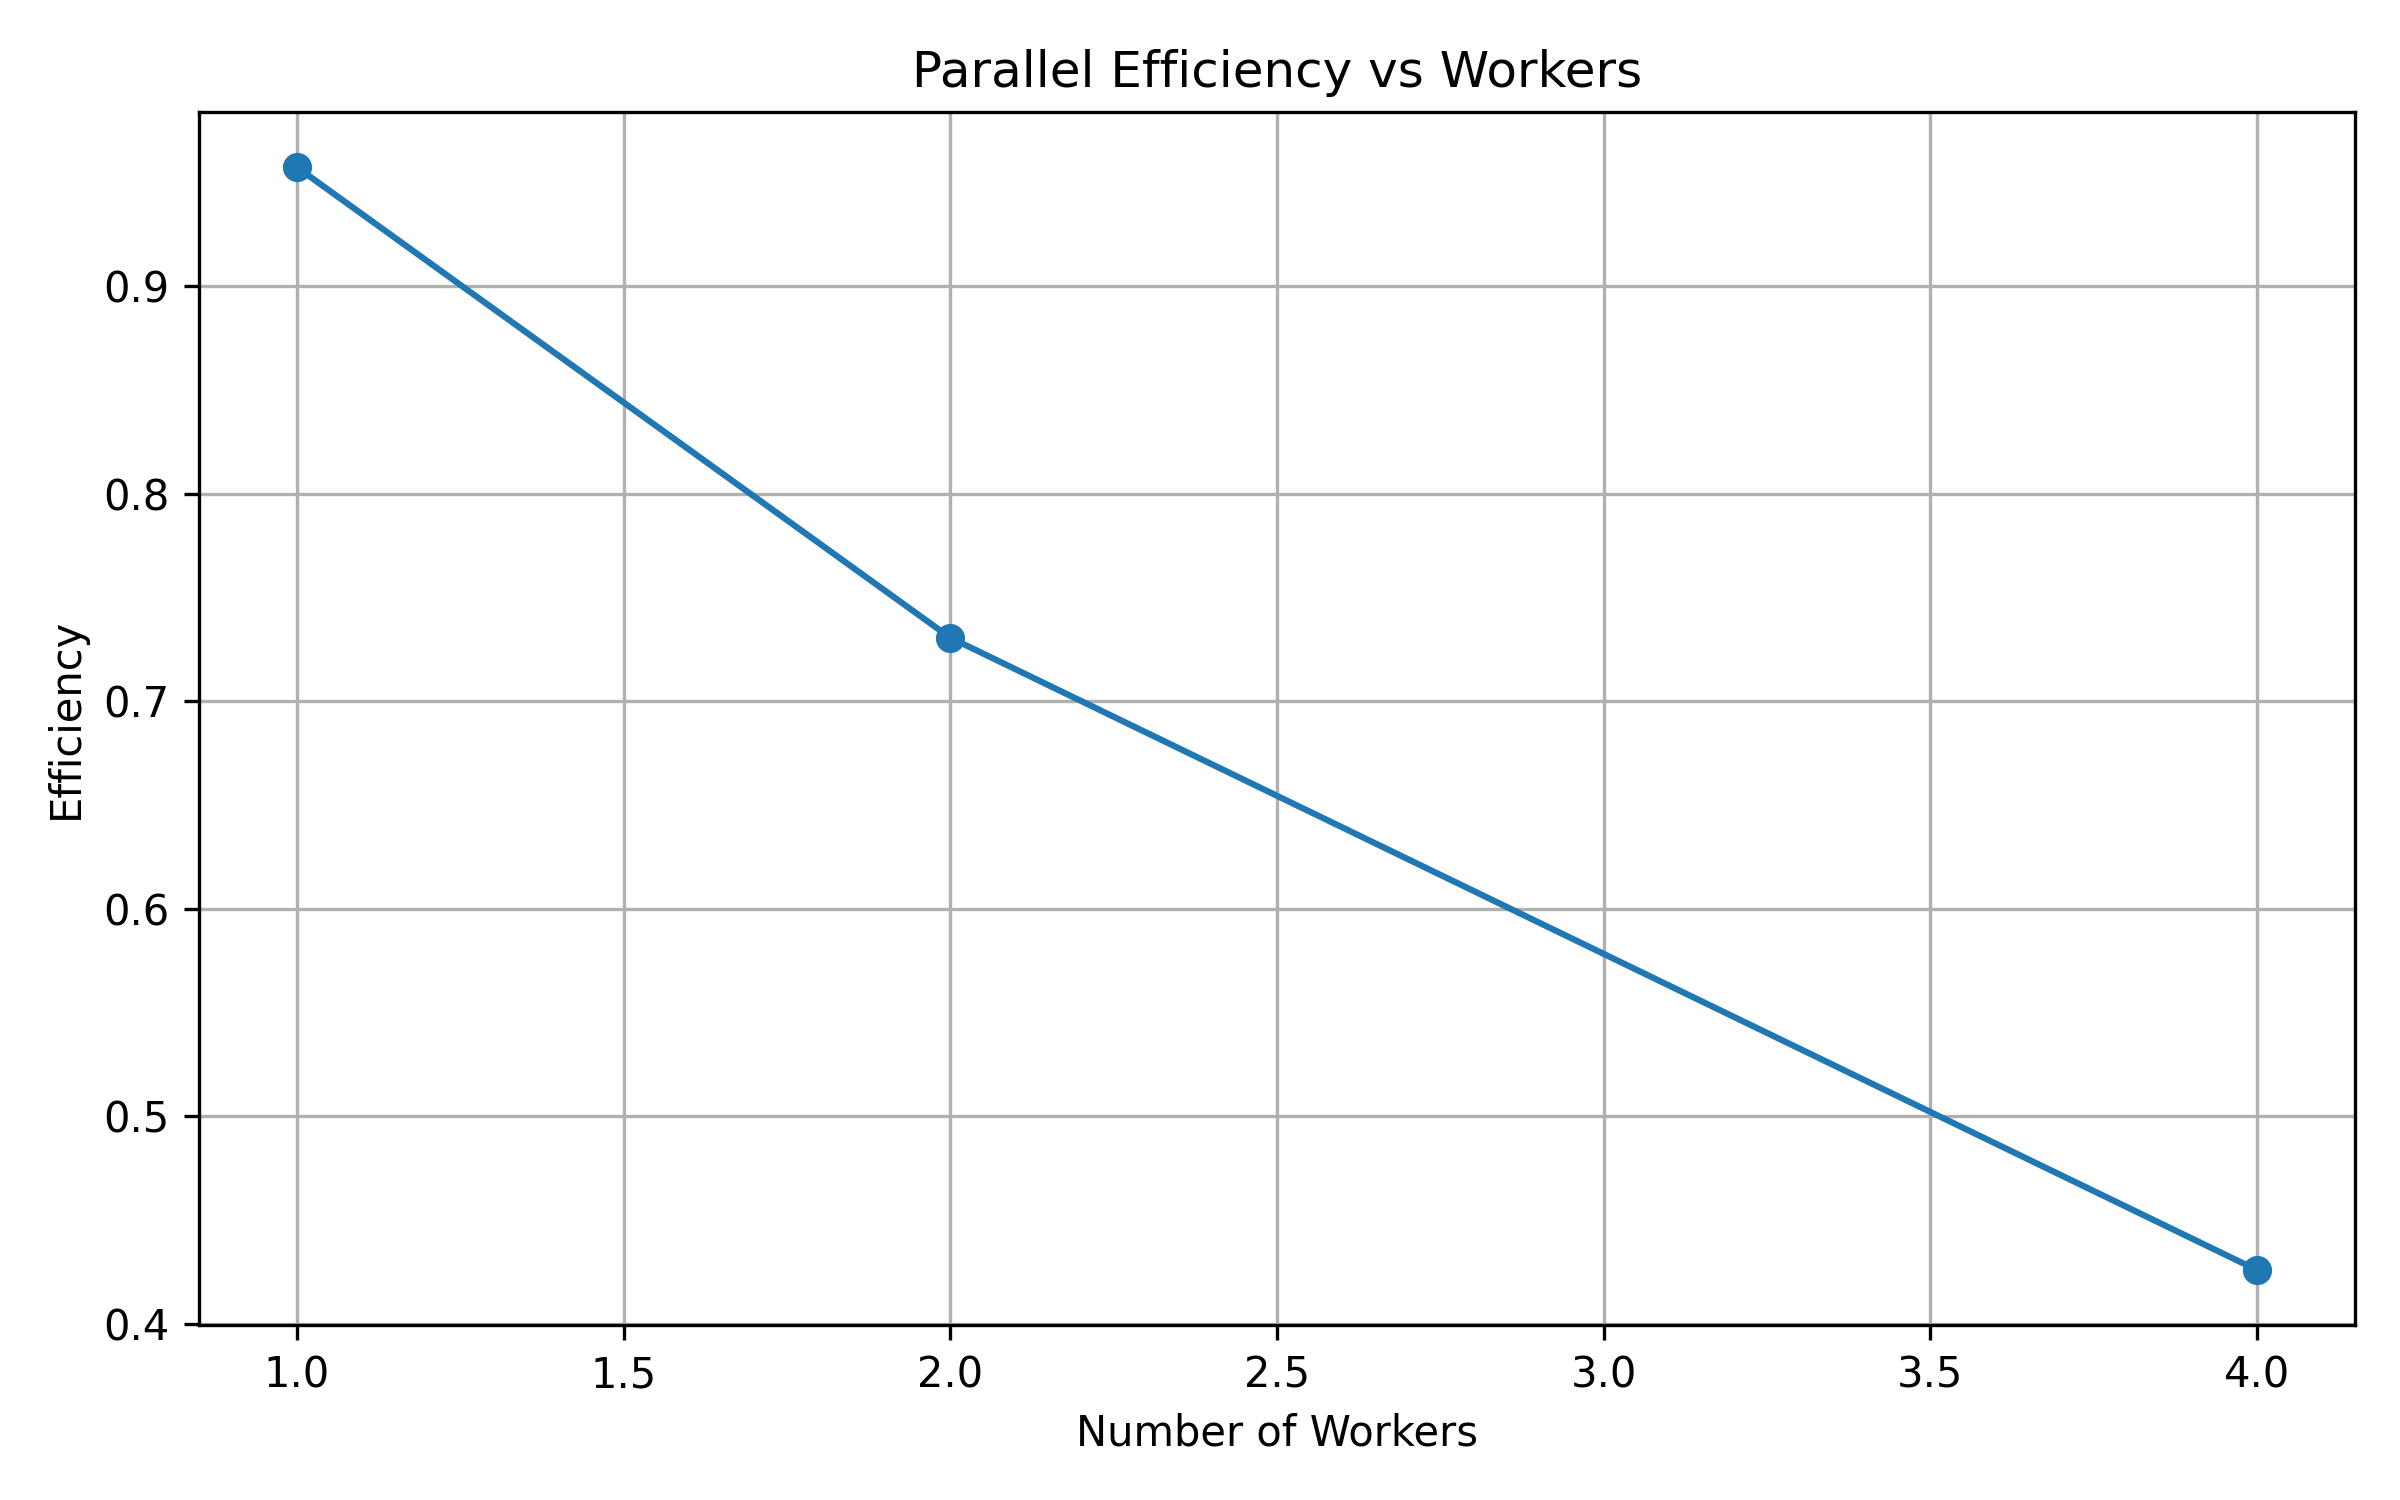
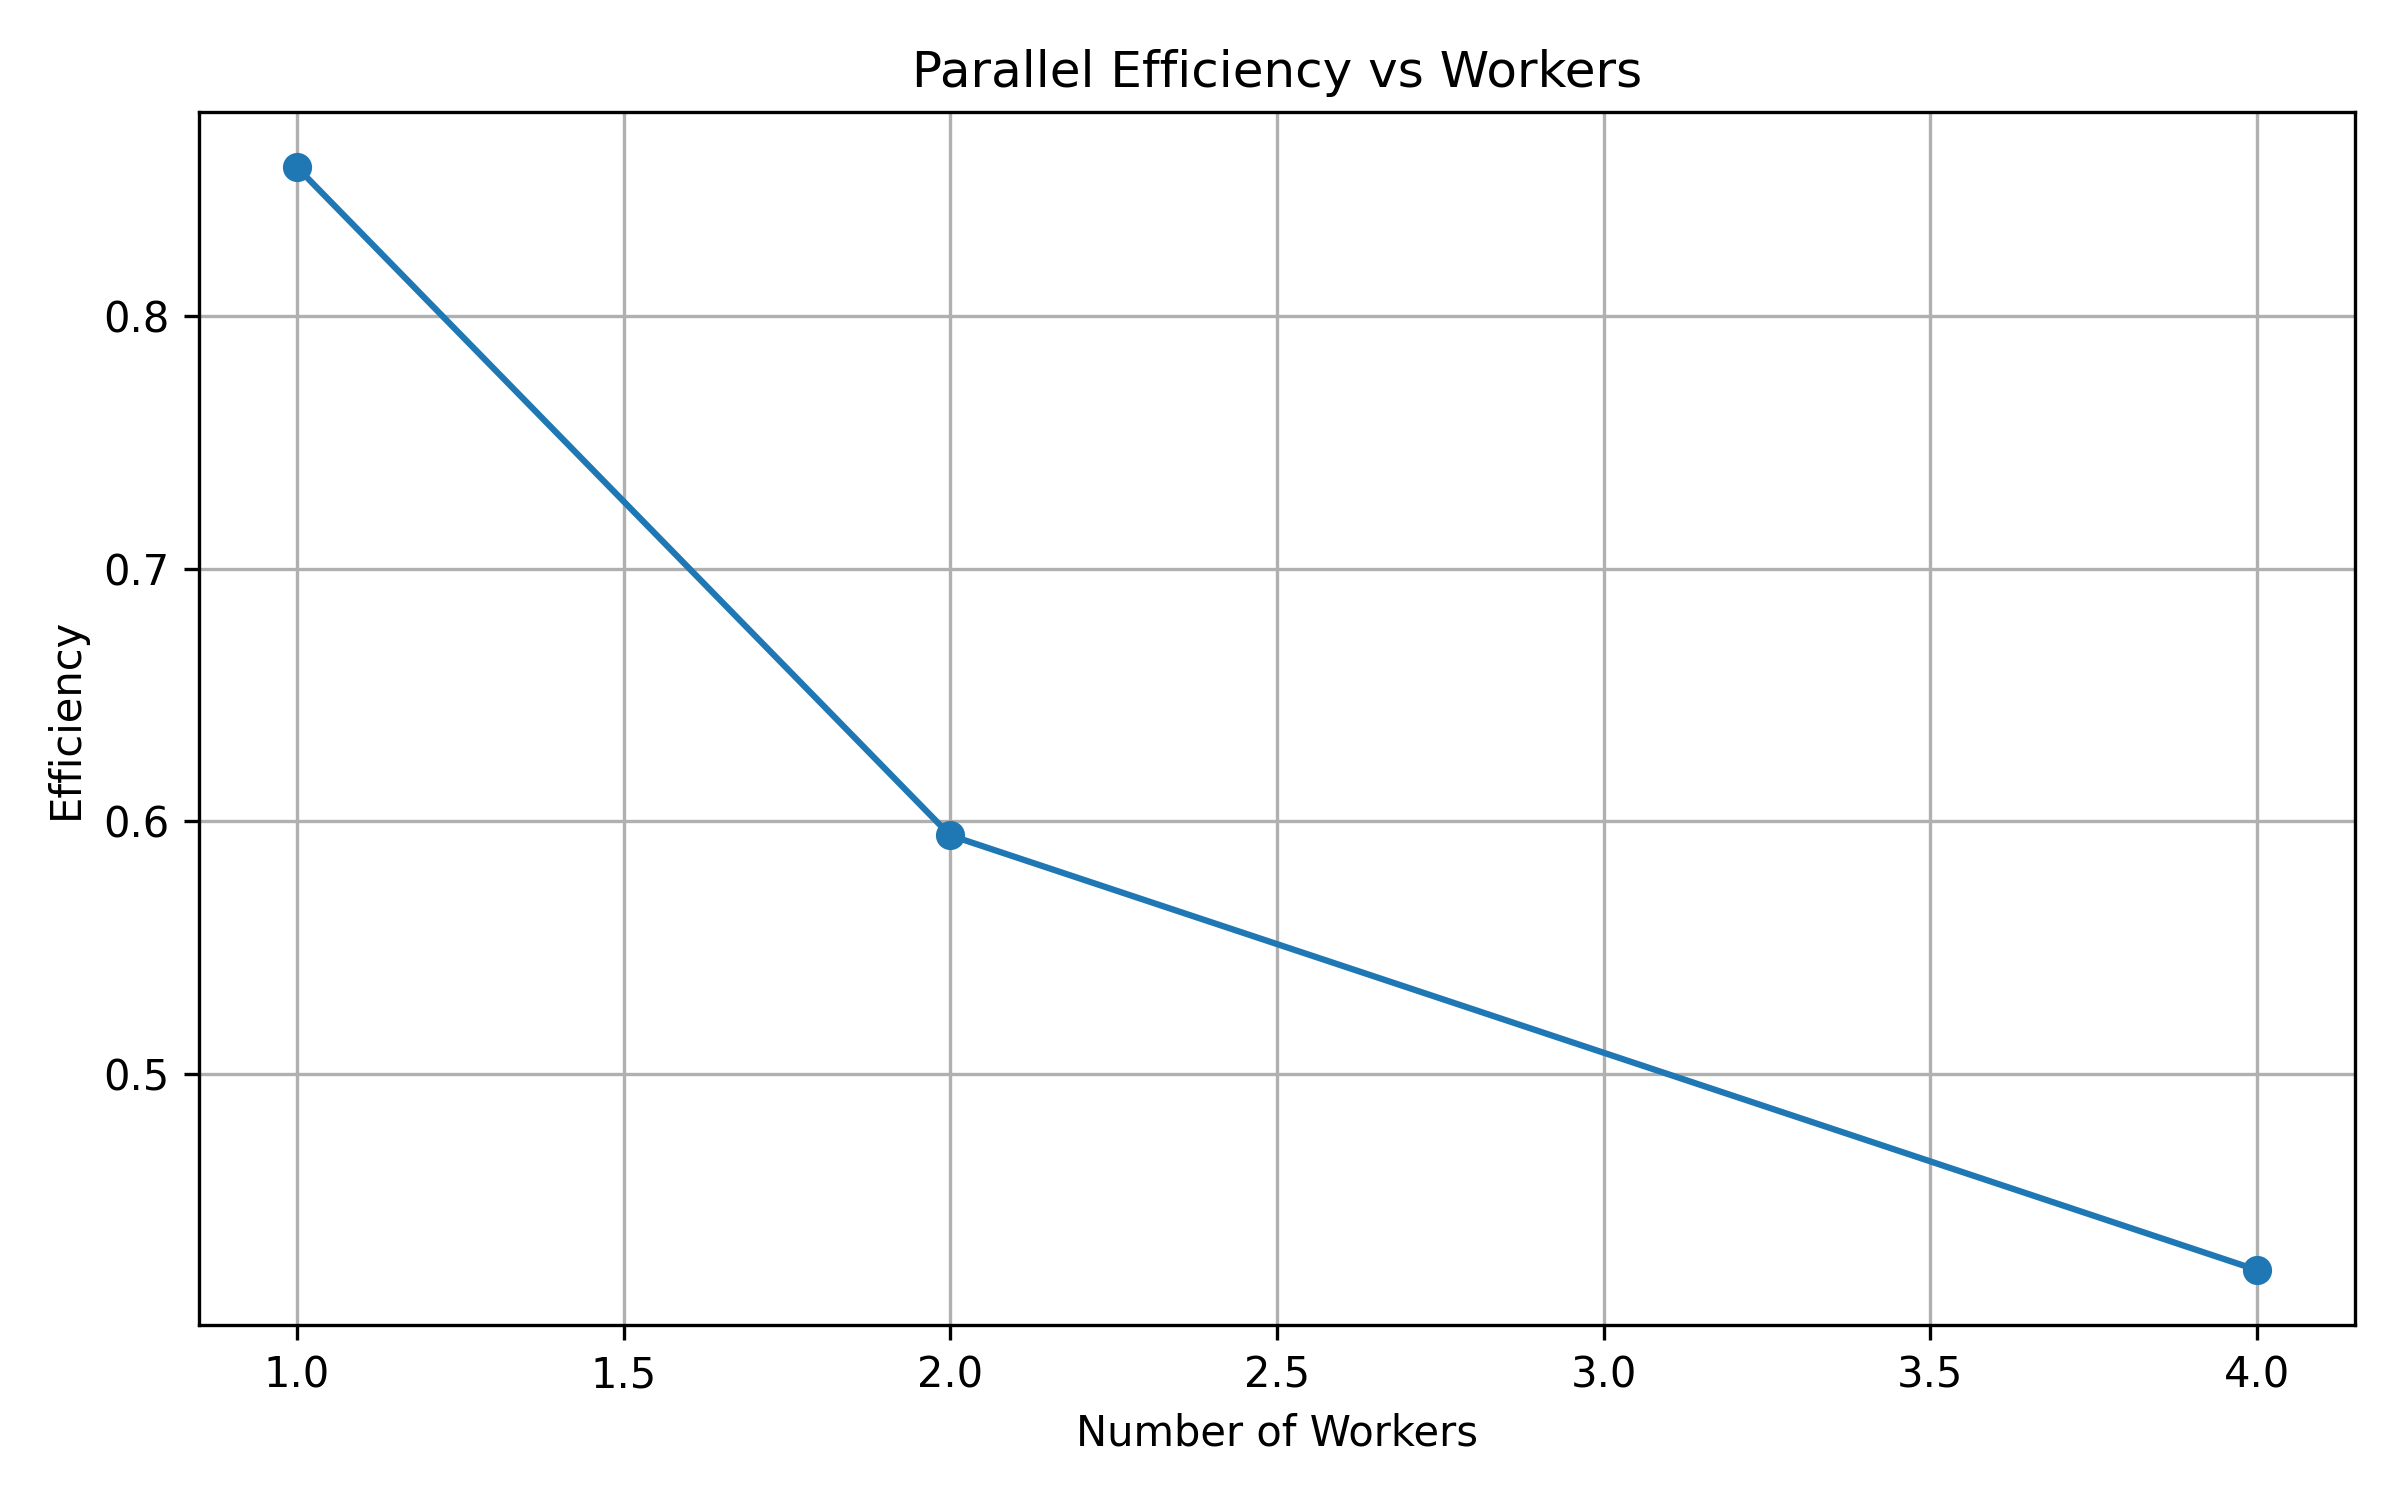
feat: finalize benchmark results and visualizations

diff --git a/src/pho/cli.py b/src/pho/cli.py
@@ -1,0 +1,82 @@
+import argparse
+import os
+import subprocess
+import sys
+
+
+def run_experiment(filename):
+    """Run an experiment from the experiments directory."""
+
+    project_root = os.path.abspath(
+        os.path.join(os.path.dirname(__file__), "..", "..")
+    )
+
+    experiment_path = os.path.join(
+        project_root,
+        "experiments",
+        filename
+    )
+
+    subprocess.run(
+        [sys.executable, experiment_path],
+        check=True
+    )
+
+
+def main():
+    """PHO command-line interface."""
+
+    parser = argparse.ArgumentParser(
+        prog="pho",
+        description=(
+            "PHO - Parallel Hyperparameter "
+            "Optimization Framework"
+        )
+    )
+
+    subparsers = parser.add_subparsers(
+        dest="command"
+    )
+
+    subparsers.add_parser(
+        "grid-search",
+        help="Run parallel grid search."
+    )
+
+    subparsers.add_parser(
+        "random-search",
+        help="Run parallel random search."
+    )
+
+    subparsers.add_parser(
+        "benchmark",
+        help="Run scalability benchmark."
+    )
+
+    args = parser.parse_args()
+
+    if args.command == "grid-search":
+
+        run_experiment(
+            "parallel_grid_search_experiment.py"
+        )
+
+    elif args.command == "random-search":
+
+        run_experiment(
+            "random_search_experiment.py"
+        )
+
+    elif args.command == "benchmark":
+
+        run_experiment(
+            "benchmark_experiment.py"
+        )
+
+    else:
+
+        parser.print_help()
+
+
+if __name__ == "__main__":
+    main()
